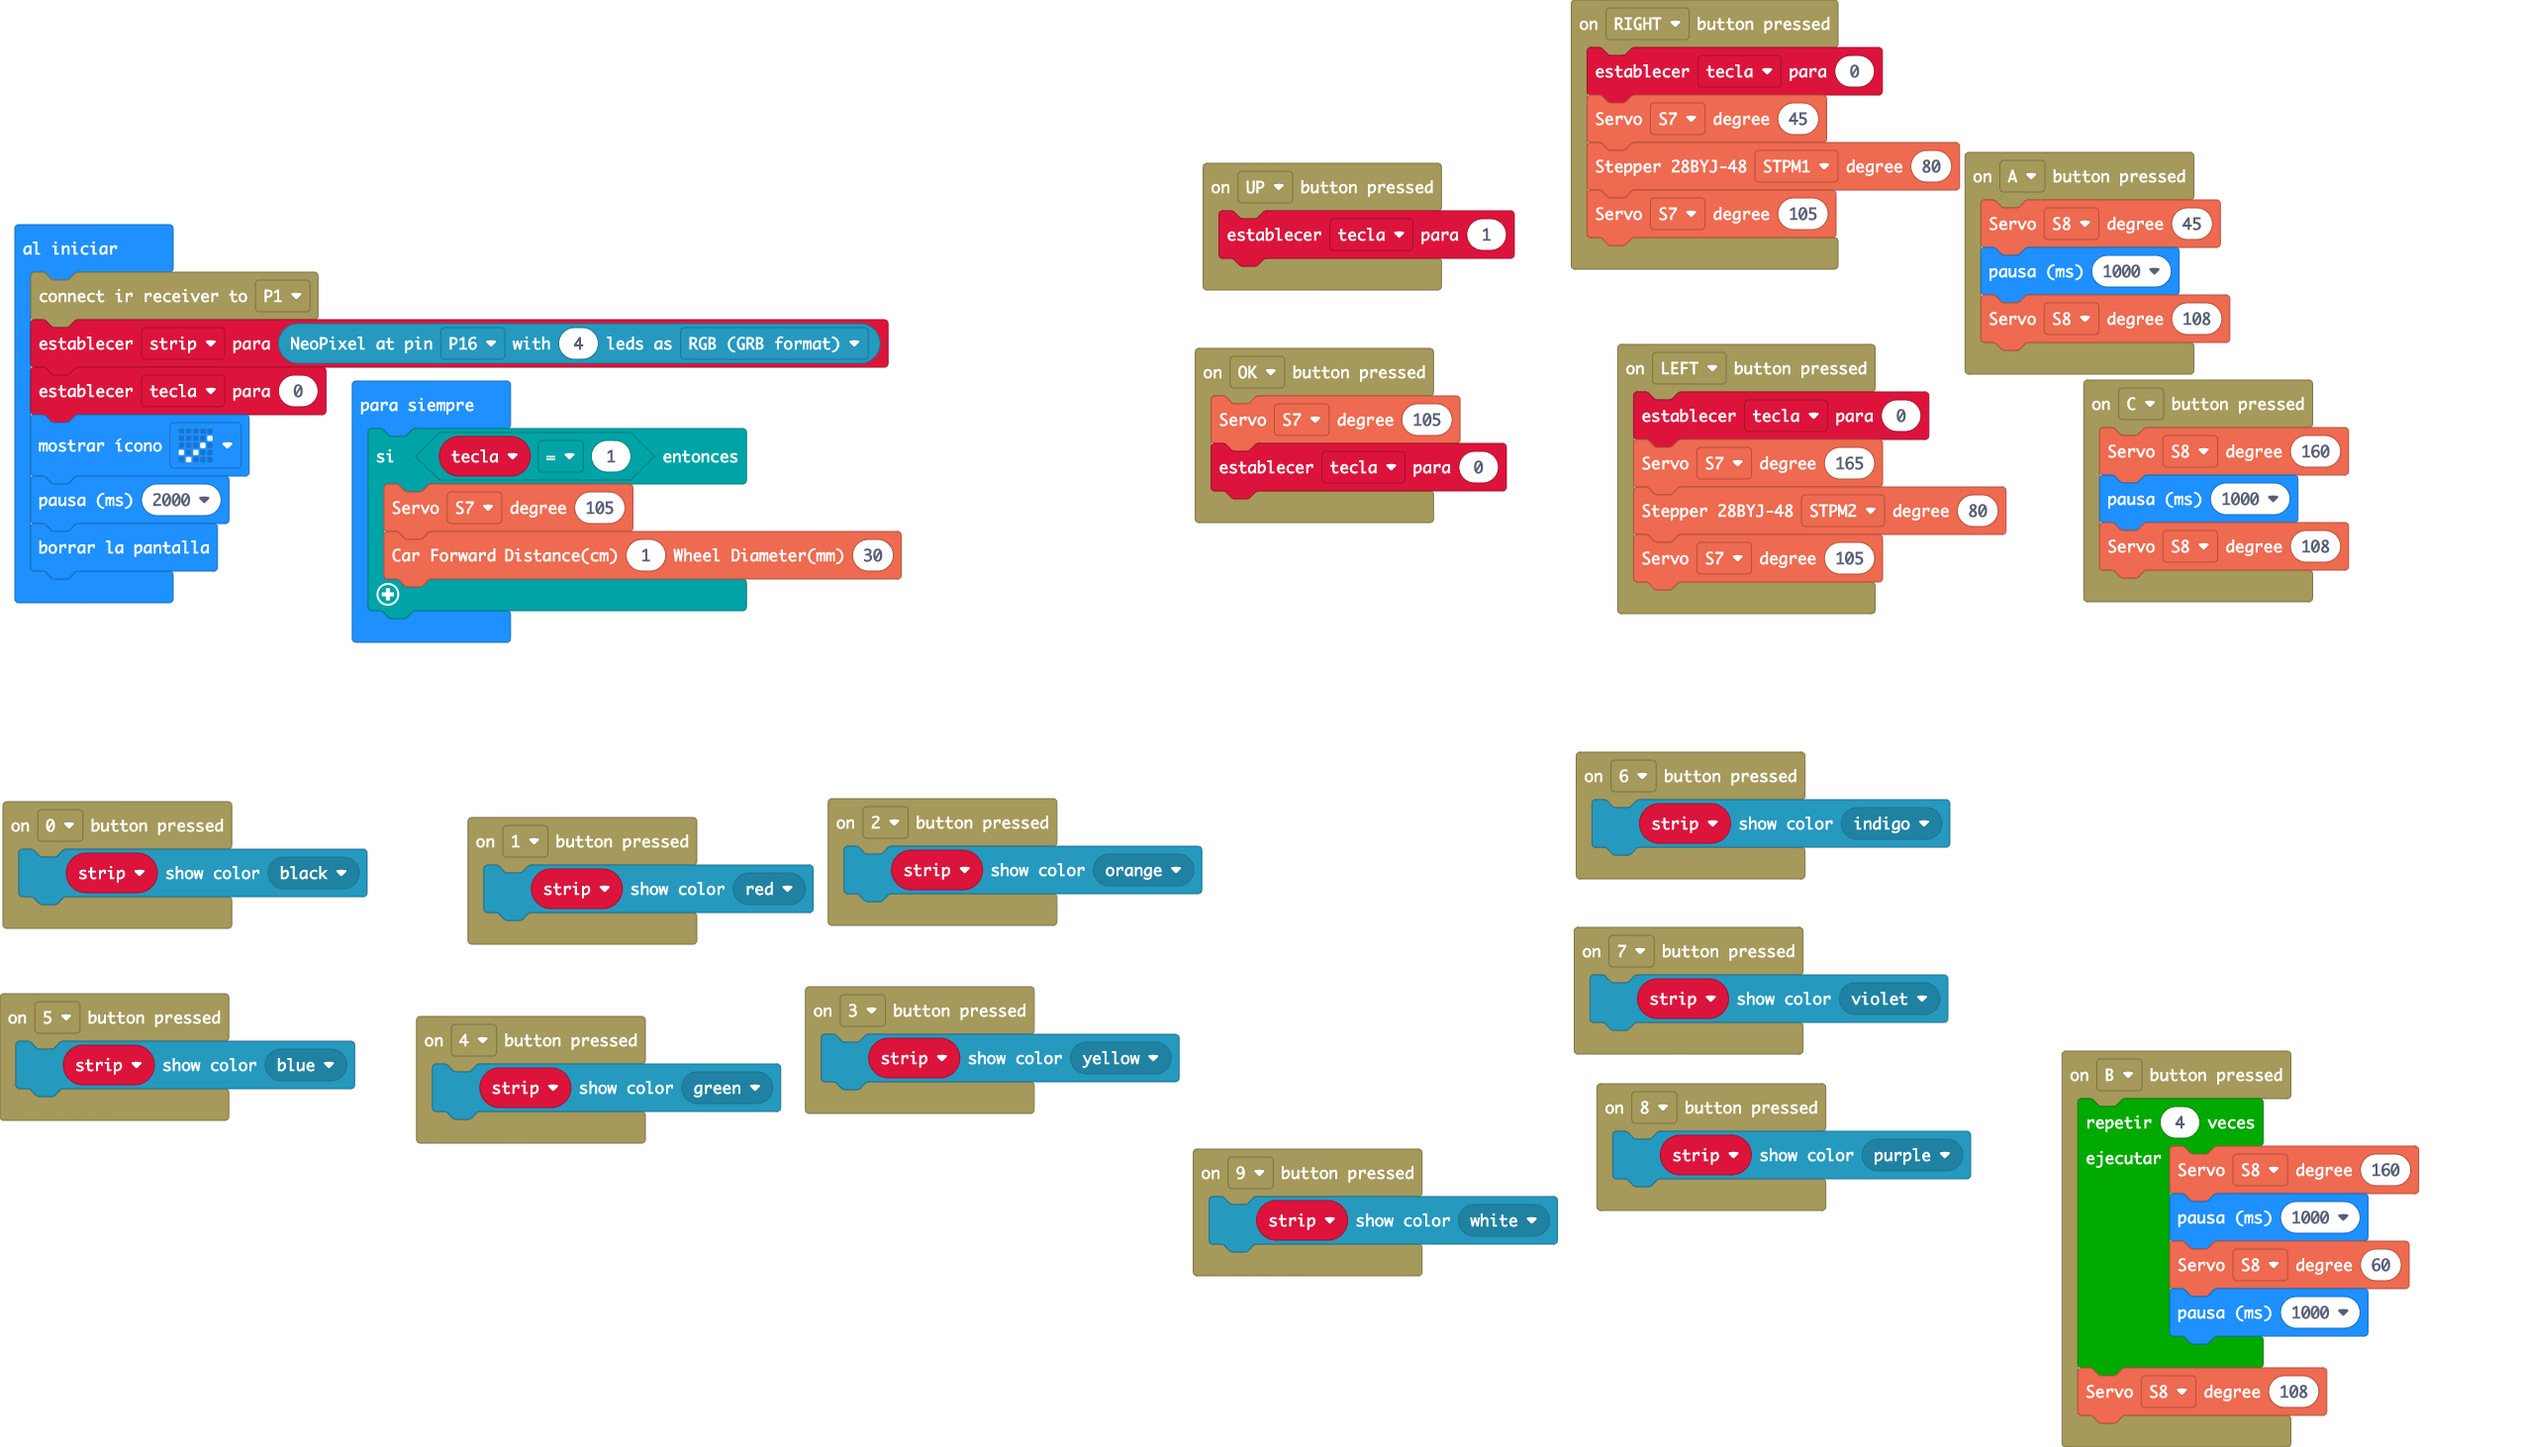
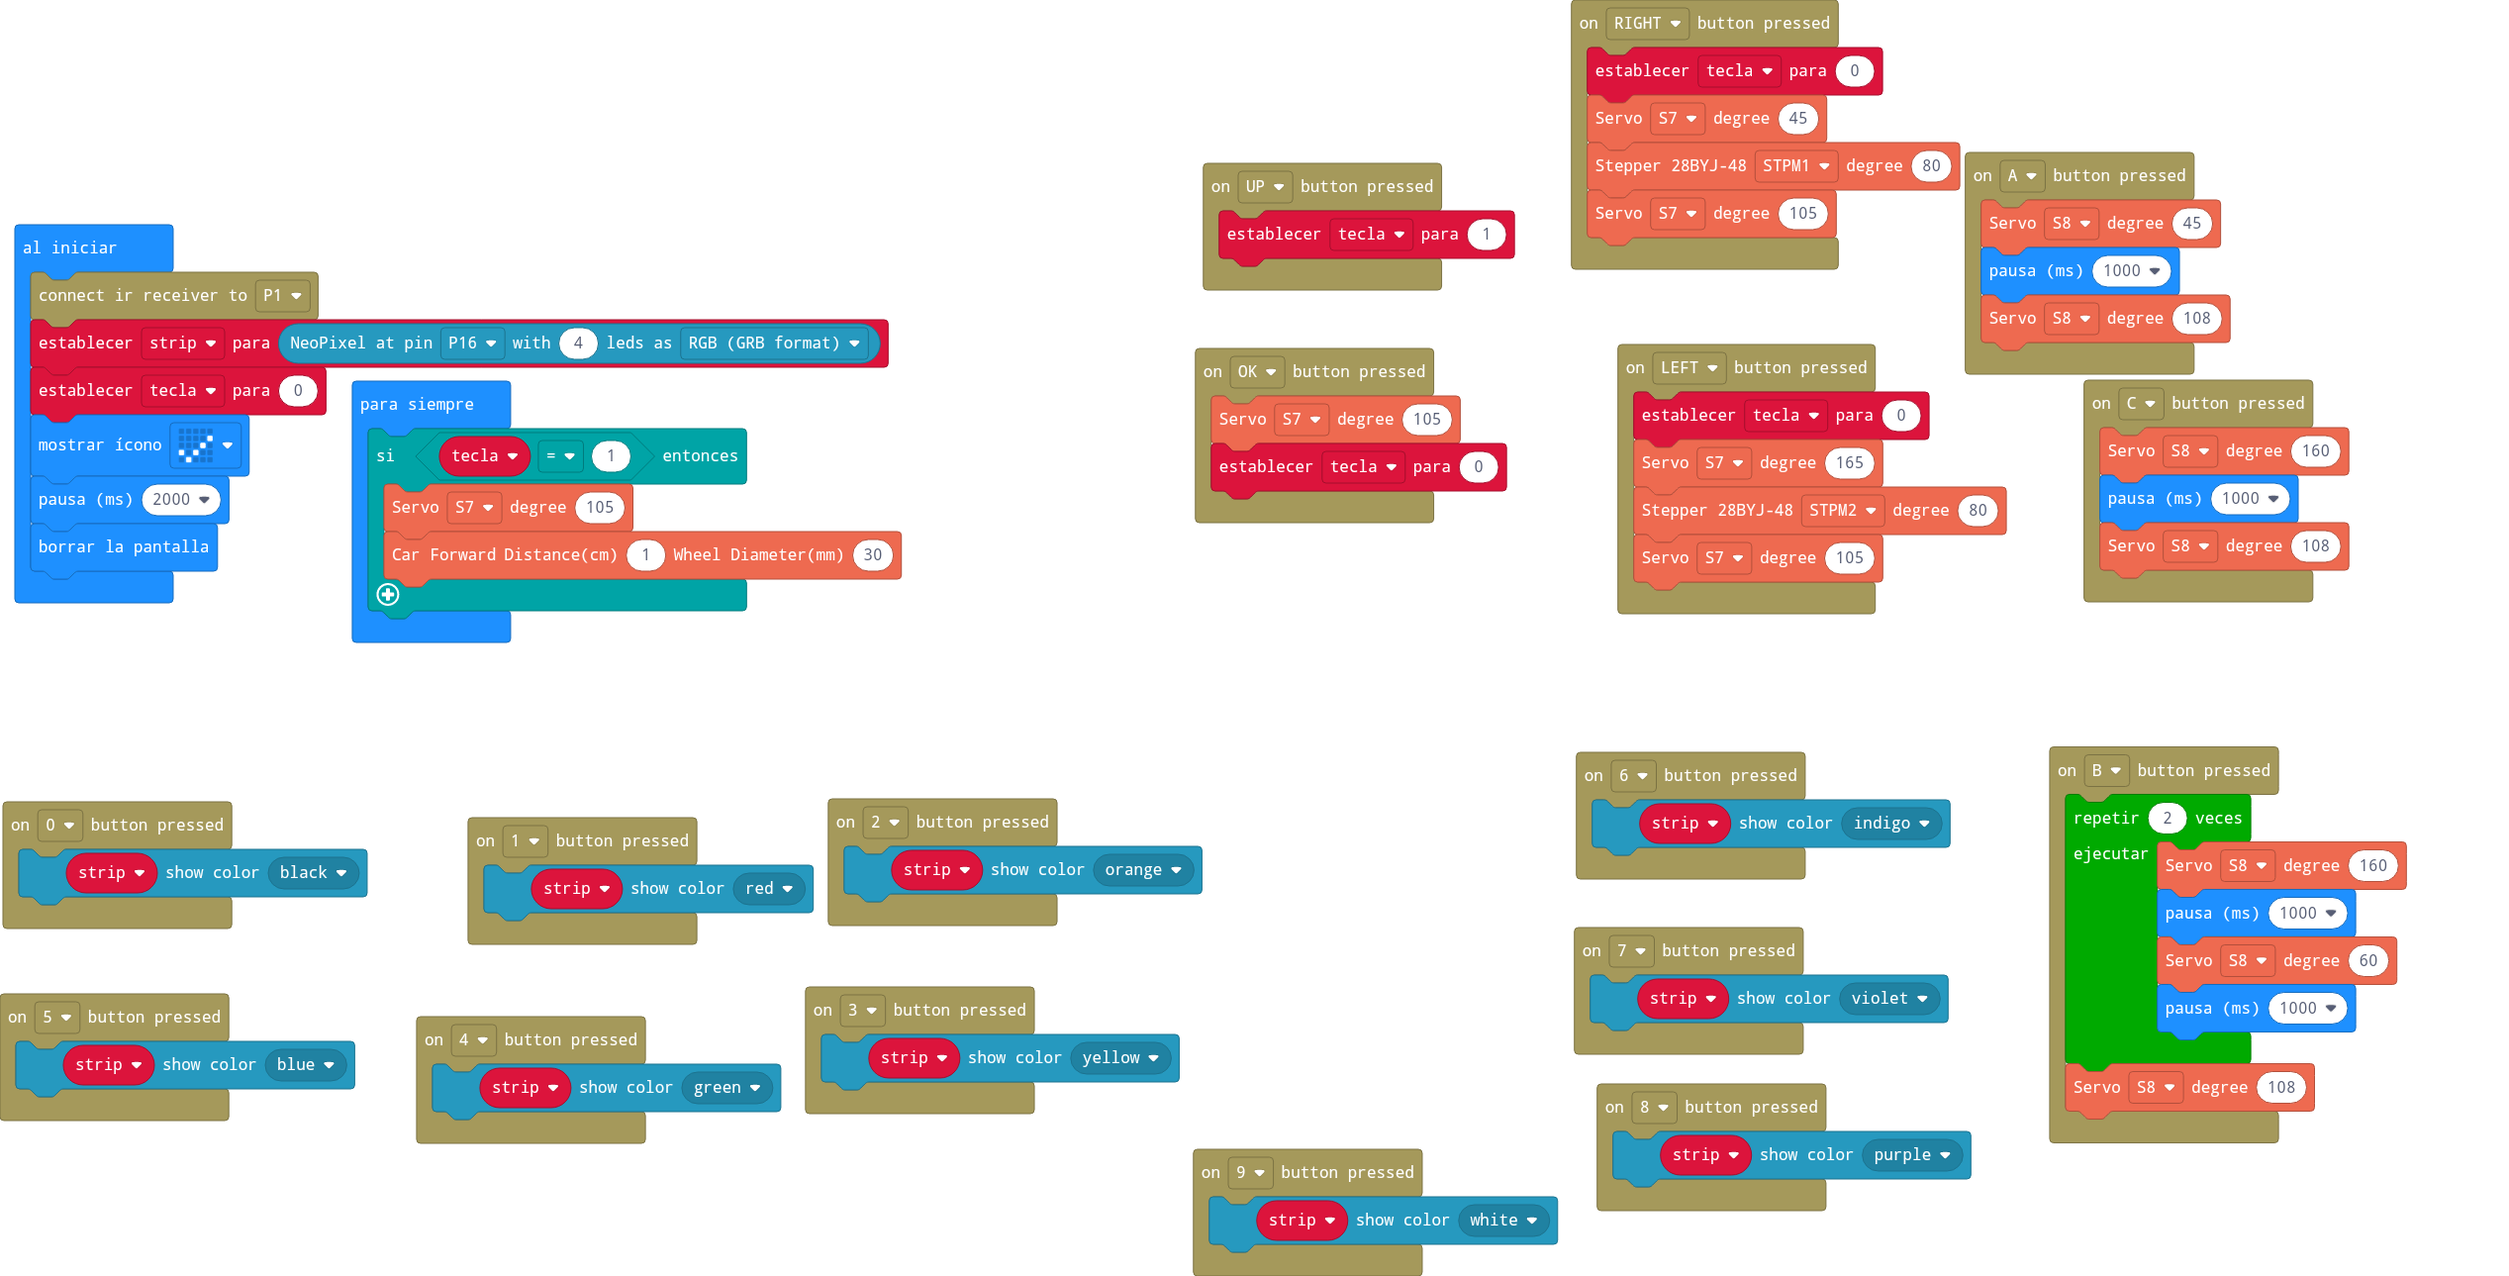
Update main.blocks, main.ts

diff --git a/main.ts b/main.ts
@@ -50,7 +50,7 @@ IrRemote.onPressEvent(RemoteButton.Left, function () {
     magicbit.Servo(magicbit.Servos.S7, 105)
 })
 IrRemote.onPressEvent(RemoteButton.B, function () {
-    for (let index = 0; index < 4; index++) {
+    for (let index = 0; index < 2; index++) {
         magicbit.Servo(magicbit.Servos.S8, 160)
         basic.pause(1000)
         magicbit.Servo(magicbit.Servos.S8, 60)
